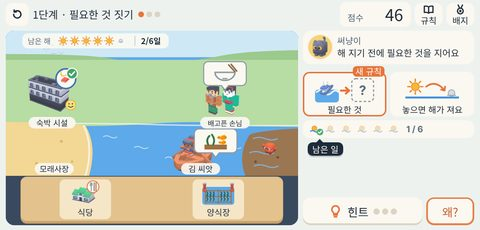
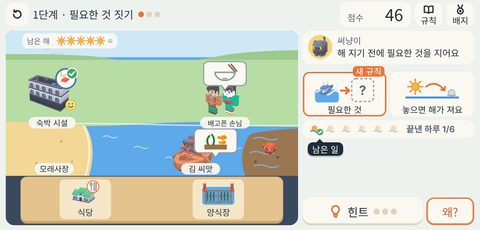
4-2 사회 3-4 「바닷가 하루」 블라인드 1차 반영 (3단계 목표·숫자 하나로)
Claude-Session: https://claude.ai/code/session_01Xu1o9JHui9XqPuFSLqMcPY

Changed region(s): [[0.0625, 0.1217, 0.375, 0.213], [0.8438, 0.5174, 0.9688, 0.5783]]

diff --git a/games/r3a4.html b/games/r3a4.html
@@ -469,6 +469,12 @@ Object.assign(ASSETS, {
   bdPort:  {vb:[0,0,48,48], svg:'<circle cx="24" cy="24" r="22" class="f-org"/><use href="#a-cFactory" x="6" y="10" width="36" height="30"/>'}
 });
 /* SVG로 둔 것과 까닭 */
+/* 배포 게임에서 가져온 Kenney 스프라이트(CC0) — kit/libsprite.py
+   kBox ← r3a1.html의 kBox */
+Object.assign(ASSETS, {
[1 lines of base64/hex data omitted]
+});
+
 var ASSETS_SVG_WHY = {
   cHarbor: '항구 묶음: Kenney 부두(pirate/structure-platform-dock)·고깃배(watercraft/boat-fishing-small)를 씀. 방파제·등대는 찾아봄(kenney --find lighthouse → Cartography Pack 선 그림뿐, 3D 키트에 등대 없음) → 직접 그림',
   cFarm: '양식장: 3D·2D 팩 모두 양식 틀·김 줄 없음(--find farm|net|seaweed → 밭·바닷속 풀뿐). 부표만 Kenney watercraft/buoy',
@@ -557,12 +563,12 @@ var STAGES = [
 var BADGES = [
   {k:'build', name:'사람이 만든 것', art:'bdBuild', def:'항구(배가 안전하게 드나드는 곳)·양식장(사람의 힘으로 물고기·김을 기르는 곳)·식당·숙박 시설은 사람이 바닷가에 만든 것이에요. 갯벌·모래사장은 원래 있던 자연이에요.'},
   {k:'work',  name:'바닷가 사람들의 일', art:'bdWork', def:'바닷가 사람들은 바다에서 물고기를 잡고, 양식장에서 일하고, 수산물 직판장에서 생선을 사고팔아요. 놀러 온 사람들은 모래사장에서 놀아요.'},
-  {k:'port',  name:'공업', art:'bdPort', def:'공업은 원료로 생활에 필요한 물건을 만드는 일이에요. 바다가 있는 지역은 배로 원료와 제품을 실어 나를 수 있어 공업이 발달하기도 해요.'}
+  {k:'port',  name:'공업', art:'bdPort', def:'공업은 원료(물건을 만들 재료)로 생활에 필요한 물건을 만드는 일이에요. 바다가 있는 지역은 배로 원료와 제품을 실어 나를 수 있어 공업이 발달하기도 해요.'}
 ];
 var NAMES = {
   harbor:'<em>항구</em>: 배가 안전해요', farm:'<em>양식장</em>: 김을 길러요', food:'<em>식당</em>에서 먹어요', inn:'<em>숙박 시설</em>에서 쉬어요',
   fisher:'바다에서 <em>물고기</em>를 잡아요', farmer:'<em>양식장</em>에서 일해요', tourist:'<em>모래사장</em>에서 공놀이!', seller:'<em>직판장</em>에서 생선 팔아요',
-  near:'배가 <em>원료</em>를 바로 줘요', house:'일하러 온 사람들의 집', box:'<em>제품</em>을 배에 실어요', miss:'해가 졌어요'
+  near:'배가 <em>만들 재료</em>를 바로 줘요', house:'일하러 온 사람들의 집', box:'<em>제품</em>을 배에 실어요', miss:'해가 졌어요'
 };
 var TITLES = [[0,'새내기 마을지기'],[460,'바닷가 마을지기'],[560,'솜씨 마을지기'],[640,'으뜸 바닷가 마을지기']];
 
@@ -654,7 +660,7 @@ function checkEnd(G,ev){
     if(!left){ bonus=(CFG.day-G.hour)*CFG.sunK; G.score+=bonus; }
   }
   G.rx.left=left; G.sx.left+=left; G.stats.left+=left; G.stats.days++;
-  var good = port ? (G.rx.farF===0 && !left) : !left; if(good){ G.res.served++; G.stats.happy++; } else G.res.missed++;
+  var good = port ? (G.rx.farF===0 && !left) : !left; if(good){ G.res.served++; G.stats.happy++; if(!G.ch){ G.stats.hs=G.stats.hs||[0,0,0]; G.stats.hs[G.si]++; } } else G.res.missed++;
   G.endT=G.t+CFG.endPause;
   ev.push({t:'roundEnd', bonus:bonus, left:left, good:good, at:'sun'});
 }
@@ -773,7 +779,7 @@ var GAME = {
     startBtn: '시작',
     start: ['해 지기 전에 필요한 것을 지어요',
             '해 지기 전에 사람을 일터로 보내요',
-            '공장을 놓아 배를 제품으로 채워요'],
+            '공장을 놓아 배 칸을 채워요'],
     end: [['자연에 사람이 만든 것을 더했어!'],
           ['바다 덕분에 하는 일이 많아!'],
           ['배로 나르니 공업이 발달해!', '울산도 이렇게 바뀌었어!']],
@@ -782,9 +788,9 @@ var GAME = {
   ruleCards: [
     [['rNeed','필요한 것',1],['rSun','놓으면 해가 져요']],
     [['rWork','하는 일',1],['rSun','놓으면 해가 져요']],
-    [['rPort','배로 원료·제품',1],['rSun','놓으면 해가 져요']]
+    [['rPort','배로 재료·제품',1],['rSun','놓으면 해가 져요']]
   ],
-  rulesModal: { cards: [['rNeed','필요한 곳에 알맞은 것'],['rSun','한 번 놓으면 해가 하나 져요'],['rPort','배가 원료와 제품을 날라요']],
+  rulesModal: { cards: [['rNeed','필요한 곳에 알맞은 것'],['rSun','한 번 놓으면 해가 하나 져요'],['rPort','배가 만들 재료와 제품을 날라요']],
     note: '아래 카드를 끌어 바닷가에 놓아요. 해가 다 지기 전에 모두 도와요.' },
   stageRibbon: function(G){ var ok=G.res.missed===0; return ok ? (G.si+1)+'단계 성공!' : {text:(G.si+1)+'단계 끝!', confetti:false}; },
   result: {
@@ -794,8 +800,9 @@ var GAME = {
     next: '다음 시간: 환경을 개발하면 무엇이 달라질까?',
     say: '친구 점수와 비교해 봐!',
     art: function(G){
-      var n=Math.min(G.stats.happy,18), h='', i;
-      for(i=0;i<n;i++) h+=useArt('progSun', 4+i*28, 10, 26, 26)+useArt('okMark', 18+i*28, 28, 14, 14);
+      /* 단계별로 묶어(사이를 띄워) 보여 줌: 그림 수 = 모두 도운 날 */
+      var hs=G.stats.hs||[G.stats.happy,0,0], h='', x=4, i, j, n=0;
+      for(j=0;j<3;j++){ for(i=0;i<(hs[j]||0);i++){ h+=useArt('progSun', x, 10, 24, 24)+useArt('okMark', x+13, 26, 13, 13); x+=26; n++; } x+=18; }
       return n ? {vb:[0,0,520,50], svg:h} : null;
     }
   },
@@ -807,7 +814,7 @@ var GAME = {
       var r=stOf(G).rule;
       if(r==='build') return {why:'바닷가에는 원래 갯벌·모래사장 같은 자연이 있어요. 사람들은 필요해서 항구·양식장·식당·숙박 시설을 만들어요', def:BADGES[0].def, page:'교과서 117쪽 참고'};
       if(r==='work') return {why:'어부는 바다에서 물고기를 잡고, 양식장에서는 김·물고기를 길러요. 상인은 직판장에서, 관광객은 모래사장에서 놀아요', def:BADGES[1].def, page:'교과서 117쪽 참고'};
-      return {why:'항구 옆 공장은 배가 원료를 바로 내려 주고 제품을 바로 실어 가요. 언덕 너머 공장은 트럭이 오가느라 제품이 적어요', def:BADGES[2].def, page:'교과서 118쪽 참고'};
+      return {why:'항구 옆 공장은 배가 만들 재료(원료)를 바로 내려 주고 제품을 바로 실어 가요. 언덕 너머 공장은 트럭이 오가느라 제품이 적어요', def:BADGES[2].def, page:'교과서 118쪽 참고'};
     }
   },
   /* 도전은 뺐다(조율자 2026-11-20): 결과를 보고 숫자를 맞춘 설계, 레벨이 카드 수만 올림 → 공리 정신(교훈 20·26) 미달 */
@@ -821,9 +828,9 @@ var GAME = {
   onEvent: function(e,FX){
     if(e.t==='ok'){ if(e.pts>0) FX.score(e.at.replace('spot:','pts:'), e.pts, false, 0); FX.burst(e.at, 8); FX.explain({why:OKWHY[e.c]||'', page:'교과서 117쪽 참고'}); }
     else if(e.t==='put'){ if(e.pts>0) FX.score(e.at.replace('spot:','pts:'), e.pts, false, 0); FX.burst(e.at, 6);
-      if(e.c==='factory' && e.k==='far') FX.callout('원료가 멀리서 와요', e.at);
-      FX.explain({why:e.c==='house'?'공장에서 일하러 온 사람들이 살 집이에요':e.k==='near'?'배가 원료를 바로 내려 주고 제품을 바로 실어 가요':'언덕 너머라 트럭이 오가느라 늦어요', def:BADGES[2].def, page:'교과서 118쪽 참고'}); }
-    else if(e.t==='box'){ if(e.pts>0) FX.score('shipPts', e.pts, false, 0); }
+      if(e.c==='factory' && e.k==='far') FX.callout('재료가 멀리서 와요', e.at);
+      FX.explain({why:e.c==='house'?'공장에서 일하러 온 사람들이 살 집이에요':e.k==='near'?'배가 만들 재료를 바로 내려 주고 제품을 바로 실어 가요':'언덕 너머라 트럭이 오가느라 늦어요', def:BADGES[2].def, page:'교과서 118쪽 참고'}); }
+    else if(e.t==='box'){ }   /* 블라인드 1차: 3단계 숫자는 배 칸 하나만(상자마다 +3 띄우지 않음) */
     else if(e.t==='wrong'){ FX.comboOff(); var w=WRONG[e.why]||{line:'다시!'}; FX.explain({why:w.why, page:'교과서 117쪽 참고'}); }   /* 이유 한 줄은 장면이 놓은 자리 안에 그린다(scene.js missLine) */
     else if(e.t==='roundEnd'){ FX.progress(); if(e.bonus>0) FX.score('sun', e.bonus, false, 0); }
     else if(e.t==='newRound'){ if(typeof U!=='undefined' && U && U.callQ) U.callQ.length=0; FX.progress(); }
@@ -887,7 +894,7 @@ function itemSvg(item){ return iconSvg(item,'it'); }
    판이 바뀌면 앞 판이 왼쪽으로 밀려 나가고 새 판이 오른쪽에서 함께 들어온다(0.6초, 하늘·땅·바다·선반은 제자리). */
 var SCENE = (function(){
   var VB={w:600,h:440}, TRAY_Y=330, LB=196, FB=150;
-  var X={L0:75,L1:205,L2:335,L3:465,W0:250,W1:410,N0:75,N1:205,F0:432,F1:540};
+  var X={L0:75,L1:205,L2:335,L3:465,W0:250,W1:410,N0:62,N1:170,F0:470,F1:552};
   var SHIP={x:120, y:250, w:210};
   var svg, L={}, bgKey='';
   function el(tag,attrs){ var e=document.createElementNS(NS,tag); for(var k in attrs) e.setAttribute(k,attrs[k]); return e; }
@@ -942,10 +949,9 @@ var SCENE = (function(){
     var h='';
     if(G.phase==='play' || G.phase==='title'){
       var left=CFG.day-(G.hour||0);
-      var fresh=G.phase==='play' && G.t-G.slideT<0.9, nR=G.phase==='play'?nRounds(G):0;
-      h+='<g data-keep="sun"><rect x="8" y="6" width="'+(nR?330:252)+'" height="34" rx="12" fill="#FBF8F1" opacity=".92"/>'+txt(46,30,'남은 해',17,'#5B6B7E');
-      for(var i=0;i<CFG.day;i++){ var cx=100+i*26; h+= i<left ? '<g'+(fresh?' class="r3a4-pop" style="animation-delay:'+(0.1+i*0.07)+'s"':'')+'>'+ua('sunOn',cx-11,12,22,22)+'</g>' : ua('sunOff',cx-9,14,18,18); }
-      if(nR) h+='<path d="M262 12V34" stroke="#C9CED6" stroke-width="2"/>'+txt(298,30,(G.ri+1)+'/'+nR+'일',18,'#1E2B3A',' font-weight="700"');
+      var fresh=G.phase==='play' && G.t-G.slideT<0.9;
+      h+='<g data-keep="sun"><rect x="8" y="6" width="214" height="34" rx="12" fill="#FBF8F1" opacity=".92"/>'+txt(44,30,'남은 해',17,'#5B6B7E');
+      for(var i=0;i<CFG.day;i++){ var cx=96+i*22; h+= i<left ? '<g'+(fresh?' class="r3a4-pop" style="animation-delay:'+(0.1+i*0.07)+'s"':'')+'>'+ua('sunOn',cx-11,12,22,22)+'</g>' : ua('sunOff',cx-9,14,18,18); }
       h+='</g>';
     }
     setH(L.hud,h);
@@ -957,7 +963,8 @@ var SCENE = (function(){
     if(sl==='B') return hasB2(spots) ? {x:4, y:218, w:78, h:104} : {x:4, y:218, w:156, h:104};
     if(sl==='B2') return {x:84, y:218, w:78, h:104};
     if(sl[0]==='W') return {x:cx-76, y:220, w:152, h:102};
-    if(sl[0]==='F') return {x:cx-52, y:46, w:104, h:112};
+    if(sl[0]==='F') return {x:cx-44, y:46, w:88, h:112};
+    if(sl[0]==='N') return {x:cx-54, y:80, w:108, h:124};
     return {x:cx-62, y:80, w:124, h:124};
   }
   function bubble(cx,y,icon){ return '<g data-keep="bub"><path d="M'+(cx-38)+' '+y+'h76a10 10 0 0 1 10 10v34a10 10 0 0 1-10 10h-30l-8 10-8-10h-30a10 10 0 0 1-10-10v-34a10 10 0 0 1 10-10z" fill="#FBF8F1" stroke="#8C99A5" stroke-width="2.4"/>'+ua(icon,cx-28,y+4,56,46)+'</g>'; }
@@ -984,8 +991,8 @@ var SCENE = (function(){
       h+= sl==='B2' ? '' : ua('kParasol',b.x+4,226,46,52);
       if(done) h+=pop(ua('fB',bx-14,236,36,46)+ua('ball',bx+12,232,26,26));
       else h+=ua('ball',bx+(sl==='B2'?-12:6),278,28,28); }
-    else if(k==='market'){ h+=ua('kStall',cx-54,LB-104,108,92)+'<rect x="'+(cx-26)+'" y="'+(LB-48)+'" width="52" height="14" rx="3" fill="#C99A5E"/>'+ua('fishB',cx-26,LB-58,26,14)+ua('fishO',cx,LB-58,26,14)+ua('kWomN',cx+34,LB-62,28,54);
-      if(done) h=pop(h+ua('mA',cx-20,LB-96,40,46)); else h+=''; }
+    else if(k==='market'){ h+=ua('kStall',cx-54,LB-104,108,92)+'<rect x="'+(cx-26)+'" y="'+(LB-48)+'" width="52" height="14" rx="3" fill="#C99A5E"/>'+ua('fishB',cx-26,LB-58,26,14)+ua('fishO',cx,LB-58,26,14);
+      if(done) h=pop(h+ua('mA',cx-20,LB-96,40,46)+ua('kWomN',cx+34,LB-62,28,54)); }
     else if(k==='near'||k==='far'){ h+=plotArt(G,s,cx); }
     if(s.ghost) return h;
     /* 맞힘 체크 / 놓친 자리 */
@@ -1002,16 +1009,14 @@ var SCENE = (function(){
     return '<rect x="'+(cx-fw/2)+'" y="'+y+'" width="'+fw+'" height="30" rx="12" fill="#FFFFFF" stroke="#D9534F" stroke-width="2.4"/>'+txt(cx,y+22,n,18,'#B03A36'); }
   /* 3단계 땅: 빈 땅(점선) / 공장(항구 옆 = 기중기 줄로 원료, 언덕 너머 = 트럭이 길 위) / 집 */
   function plotArt(G,s,cx){
-    var far=s.k==='far', base=far?FB:LB, h='';
-    if(s.st==='empty'){ h+='<rect x="'+(cx-46)+'" y="'+(base-44)+'" width="92" height="40" rx="8" fill="#C9A77A" stroke="#8C6A4A" stroke-width="2.4" stroke-dasharray="7 5"/>'; return h; }
+    var far=s.k==='far', base=far?FB:LB, h='', fw=far?84:100, pw=far?80:92;
+    if(s.st==='empty'){ h+='<rect x="'+(cx-pw/2)+'" y="'+(base-44)+'" width="'+pw+'" height="40" rx="8" fill="#C9A77A" stroke="#8C6A4A" stroke-width="2.4" stroke-dasharray="7 5"/>'; return h; }
     if(s.st==='fac'){
-      h+=ua('cFactory',cx-50,base-84,100,80);
-      if(!far){ h+='<path d="M'+(cx+30)+' '+(base-60)+'L'+(SHIP.x+SHIP.w/2-30)+' 214" stroke="#5B6B7E" stroke-width="2" stroke-dasharray="5 4"/>'; }
-      else { var ph=((G.hour-s.at)%CFG.farEvery)/CFG.farEvery, tx=338+ph*(cx-338), ty=200-ph*38;
-        h+=ua('truck',tx-24,ty-26,48,24); }
-      if(s.boxes) h+='<g><rect x="'+(cx+8)+'" y="'+(base-104)+'" width="64" height="28" rx="10" fill="#FBF8F1" opacity=".92"/>'+ua('gCont',cx+10,base-102,28,24)+txt(cx+54,base-83,'×'+s.boxes,18,'#1E2B3A',' font-weight="700"')+'</g>';
+      h+=ua('cFactory',cx-fw/2,base-fw*0.84,fw,fw*0.8);
+      if(far){ var ph=((G.hour-s.at)%CFG.farEvery)/CFG.farEvery, tx=338+ph*(cx-60-338), ty=200-Math.min(1,ph*1.6)*38;
+        h+=ua('truck',tx-24,ty-26,48,24)+ua('kBox',tx-12,ty-40,22,17); }   /* 트럭이 상자를 싣고 언덕 길을 천천히 오간다 */
     }
-    if(s.st==='house') h+=ua('cHouse',cx-40,base-84,80,80);
+    if(s.st==='house') h+=ua('cHouse',cx-fw*0.4,base-fw*0.84,fw*0.8,fw*0.8);
     return h;
   }
   /* 맞힌 순간(0.6초): 놓은 카드가 그 자리로 줄어들며 들어간다 */
@@ -1021,13 +1026,15 @@ var SCENE = (function(){
       h+='<g opacity="'+o.toFixed(2)+'"><circle cx="'+cx+'" cy="'+cy+'" r="'+(40+a*40).toFixed(1)+'" fill="none" stroke="#3FA56B" stroke-width="4"/>'+ua(CARDS[s.what].art,cx-w/2,cy-w/2,w,w)+'</g>'; }
     return h;
   }
-  function labName(s){ var d=SPOTS[s.k]; if(s.k==='near'||s.k==='far') return s.st==='fac'?'공장':s.st==='house'?'집':d.name; return s.st==='done' && d.ok ? d.ok : d.name; }
+  function labName(s){ var d=SPOTS[s.k]; if(s.k==='far' && s.st==='empty') return '';   /* 빈 언덕 너머 땅은 이름표 하나로 묶음(lab:far) */
+    if(s.k==='near'||s.k==='far') return s.st==='fac'?'공장':s.st==='house'?'집':d.name; return s.st==='done' && d.ok ? d.ok : d.name; }
   function labPos(s,spots){ var b=spotBox(s,spots), sl=s.slot;
     if(sl[0]==='W' || sl[0]==='B') return {x:b.x+b.w/2, y:312};
     if(sl[0]==='F') return {x:X[sl], y:FB+30};
     return {x:X[sl], y:LB+12}; }
   function labSize(n){ return n.length>5?16:18; }
-  function labArt(G,s,spots){ var p=labPos(s,spots), n=labName(s); return pill(p.x,p.y,n,labSize(n)); }
+  function labArt(G,s,spots){ var p=labPos(s,spots), n=labName(s); return n ? pill(p.x,p.y,n,labSize(n)) : ''; }
+  function farEmpty(spots){ return (spots||[]).some(function(s){ return s.k==='far' && s.st==='empty'; }); }
   /* 쓰지 않은 칸의 장식(이미 지은 마을) */
   function decor(G,spots){
     var r=rule(G), used={}, h=''; (spots||[]).forEach(function(s){ used[s.slot]=1; });
@@ -1040,12 +1047,14 @@ var SCENE = (function(){
   /* 3단계 화물선: 갑판 점선 칸 = 실을 수 있는 제품, 채운 칸 = 실은 제품 */
   function shipArt(G,ship,max){
     var h='', sx=SHIP.x, sy=SHIP.y, w=SHIP.w;
-    h+=ua('crane',290,112,56,96);
     h+='<path d="M'+(sx-8)+' '+sy+'H'+(sx+w+10)+'L'+(sx+w-8)+' '+(sy+62)+'H'+(sx+10)+'Z" fill="#3E6FB0" stroke="#2B4F82" stroke-width="2.4"/>'+
        '<rect x="'+(sx+w-34)+'" y="'+(sy-30)+'" width="30" height="30" rx="4" fill="#FBF8F1" stroke="#5B6B7E" stroke-width="2"/><rect x="'+(sx+w-29)+'" y="'+(sy-24)+'" width="20" height="8" fill="#7FB3D8"/>';
     var shown=Math.max(0,ship-(G.fx||[]).filter(function(f){ return f.k==='box' && G.t-f.at<0.6; }).length);
     for(var i=0;i<max;i++){ var col=i%6, row=Math.floor(i/6), x=sx+4+col*28, y=sy+6+row*26;
-      h+= i<shown ? ua('gCont',x,y-2,26,22) : '<rect x="'+(x+2)+'" y="'+y+'" width="22" height="18" rx="3" fill="#FBF8F1" fill-opacity=".3" stroke="#FBF8F1" stroke-width="2" stroke-dasharray="4 3"/>'; }
+      h+= i<shown ? ua('kBox',x-1,y-2,28,22) : '<rect x="'+(x+2)+'" y="'+y+'" width="22" height="18" rx="3" fill="#FBF8F1" fill-opacity=".3" stroke="#FBF8F1" stroke-width="2" stroke-dasharray="4 3"/>'; }
+    /* 목표 = 하나의 숫자: 배에 실을 제품 n/m (칸 채움과 같은 수) */
+    h+='<rect x="338" y="268" width="214" height="38" rx="14" fill="#FBF8F1" stroke="#2B4F82" stroke-width="2.4"/>'+ua('kBox',344,275,28,22)+
+       '<text x="376" y="293" font-size="17" fill="#1E2B3A" class="r3a4-t">배에 실을 제품</text>'+'<text x="544" y="296" text-anchor="end" font-size="22" font-weight="700" fill="#2B4F82" class="r3a4-t">'+shown+'/'+max+'</text>';
     return '<g data-keep="ship">'+h+'</g>';
   }
   function village(G,spots,occ,ship,max){
@@ -1055,6 +1064,7 @@ var SCENE = (function(){
     spots.forEach(function(s){ h+=labArt(G,s,spots); });
     if(r!=='port' && !spots.some(function(s){ return s.slot==='B'; })) h+=pill(80,312,'모래사장',18);
     if(r==='port') (occ||[]).forEach(function(sl){ h+=pill(X[sl],LB+12,'이미 선 공장',16); });
+    if(r==='port' && farEmpty(spots)) h+=pill(511,FB+30,'언덕 너머 땅',17);
     return h;
   }
   /* ---- 선반 ---- */
@@ -1063,6 +1073,9 @@ var SCENE = (function(){
     if(G.phase==='stageEnd'){ setH(L.tray,''); return; }
     var h='', n=(G.tray||[]).length, on=G.phase==='play'||G.phase==='title';
     h+='<rect x="4" y="'+TRAY_Y+'" width="592" height="106" rx="14" fill="#C9A26A"/><rect x="4" y="'+TRAY_Y+'" width="592" height="100" rx="14" fill="#E3C28D"/>';
+    var empty=!(G.tray||[]).some(function(c){ return c; });
+    if(G.phase==='play' && empty){ var m=G.endT>=0 ? '하루 끝! 다음 날이 와요' : '공장이 상자를 만들어요';
+      h+=ua(G.endT>=0?'sunOff':'kBox',300-m.length*10-34,TRAY_Y+32,G.endT>=0?30:36,G.endT>=0?30:28)+txt(300+18,TRAY_Y+56,m,20,'#5B4A2E'); }
     (G.tray||[]).forEach(function(c,i){ if(!c) return; var x=trayX(i,n), a=CARDS[c].art, nm=CARDS[c].name;
       h+='<g'+(on?'':' opacity=".5"')+'><rect x="'+(x-58)+'" y="'+(TRAY_Y+6)+'" width="116" height="90" rx="12" fill="#F5E6C8"/>'+ua(a,x-36,TRAY_Y+8,72,60)+
         txt(x,TRAY_Y+88,nm,nm.length>5?16:19)+'</g>'; });
@@ -1073,8 +1086,8 @@ var SCENE = (function(){
     var h='';
     if(G.phase==='play' && rule(G)==='port') (G.fx||[]).forEach(function(f){ if(f.k!=='box') return; var a=G.t-f.at; if(a<0||a>0.6) return;
       var s=(G.spots||[]).find(function(x){ return x.id===f.id; }); if(!s) return;
-      var e=ease(a/0.6), base=s.k==='far'?FB:LB, x0=X[s.slot]+30, y0=base-20, x1=SHIP.x+SHIP.w/2, y1=SHIP.y, x=x0+(x1-x0)*e, y=y0+(y1-y0)*e-Math.sin(e*Math.PI)*40;
-      h+=ua('gCont',x-14,y-12,28,24); });
+      var e=ease(a/0.6), base=s.k==='far'?FB:LB, x0=X[s.slot]+20, y0=base-70, x1=SHIP.x+SHIP.w-30, y1=SHIP.y, x=x0+(x1-x0)*e, y=y0+(y1-y0)*e-Math.sin(e*Math.PI)*40;
+      h+=ua('kBox',x-14,y-11,28,22); });
     setH(L.fx,h);
   }
   /* ---- 단계 끝 카드(개념의 증거) ---- */
@@ -1102,10 +1115,10 @@ var SCENE = (function(){
       h+='<rect x="34" y="150" width="242" height="44" rx="8" fill="#5DA9E9"/>'+ua('gRow',50,152,60,34)+ua('gRow',200,160,54,30)+ua('houseA',40,64,70,70)+ua('houseC',114,70,60,60)+'<rect x="186" y="96" width="80" height="44" rx="6" fill="#C9D98A"/><path d="M194 106h64M194 118h64M194 130h64" stroke="#9BB55A" stroke-width="3"/>';
       h+='<rect x="324" y="150" width="242" height="44" rx="8" fill="#5DA9E9"/>'+ua('gCargo',330,140,120,56)+ua('crane',446,92,40,70)+ua('cFactory',326,56,90,72)+ua('cFactory',474,62,84,66)+ua('kBldg',420,54,52,46)+ua('kKidA',486,124,18,34)+ua('kWomN',504,124,18,34)+ua('kKidA',522,124,18,34)+ua('kWomN',540,124,18,34);
       h+='<rect x="24" y="214" width="552" height="104" rx="14" fill="#FFF1D6"/>';
-      h+=txt(152,240,'항구 옆 공장',20)+txt(448,240,'언덕 너머 공장',20);
-      for(var i=0;i<6;i++) h+=ua('gCont',44+i*36,252,32,28);
-      for(var j=0;j<2;j++) h+=ua('gCont',380+j*36,252,32,28);
-      h+=ua('truck',470,252,56,28)+txt(300,306,'배로 원료·제품을 바로 날라요',20,'#5B6B7E');
+      h+=txt(152,240,'항구 옆 공장 (가까움)',20)+txt(448,240,'언덕 너머 공장 (멂)',20);
+      for(var i=0;i<6;i++) h+=ua('kBox',44+i*36,254,32,25);
+      for(var j=0;j<2;j++) h+=ua('kBox',380+j*36,254,32,25);
+      h+=ua('truck',470,252,56,28)+txt(300,306,'배로 재료·제품을 바로 날라요',20,'#5B6B7E');
     }
     setH(L.card,h+'</g>');
   }
@@ -1132,8 +1145,8 @@ var SCENE = (function(){
       if(sl[0]==='L'||sl[0]==='N') return {x:bb.x+bb.w/2-20, y:44, w:40, h:28};
       if(sl[0]==='F') return {x:bb.x-34, y:70, w:40, h:28};
       return {x:bb.x+4, y:bb.y+2, w:40, h:28}; }
-    if(p[0]==='lab'){ if(p[1]==='sand') return {x:30,y:299,w:100,h:26}; s=(G.spots||[]).find(function(x){ return String(x.id)===p[1]; }); if(!s) return null; var q=labPos(s,G.spots), n=labName(s), w=n.length*labSize(n)+16; return {x:q.x-w/2, y:q.y-13, w:w, h:26}; }
-    if(p[0]==='sun') return (G.phase==='play'||G.phase==='title') ? {x:8, y:6, w:(G.phase==='play'?330:252), h:34} : null;
+    if(p[0]==='lab'){ if(p[1]==='sand') return {x:30,y:299,w:100,h:26}; if(p[1]==='far') return farEmpty(G.spots) ? {x:511-112,y:FB+17,w:224,h:26} : null; s=(G.spots||[]).find(function(x){ return String(x.id)===p[1]; }); if(!s) return null; var q=labPos(s,G.spots), n=labName(s); if(!n) return null; var w=n.length*labSize(n)+16; return {x:q.x-w/2, y:q.y-13, w:w, h:26}; }
+    if(p[0]==='sun') return (G.phase==='play'||G.phase==='title') ? {x:8, y:6, w:214, h:34} : null;
     if(p[0]==='ship') return (G.phase==='play' && rule(G)==='port') ? {x:SHIP.x-6, y:SHIP.y-40, w:SHIP.w+18, h:100} : null;
     if(p[0]==='endcard') return G.phase==='stageEnd' ? {x:10, y:8, w:580, h:424} : null;
     return null;
@@ -1150,7 +1163,7 @@ var SCENE = (function(){
     if(G.phase==='title'){ (G.spots||[]).forEach(function(s){ k.push('spot:'+s.id); }); (G.tray||[]).forEach(function(c,i){ k.push('card:'+i); }); }
     return k;
   }
-  function labels(G){ if(G.phase==='stageEnd') return []; var a=(G.spots||[]).map(function(s){ return 'lab:'+s.id; }); if(rule(G)!=='port') a.push('lab:sand'); return a; }
+  function labels(G){ if(G.phase==='stageEnd') return []; var a=(G.spots||[]).map(function(s){ return 'lab:'+s.id; }); if(rule(G)!=='port') a.push('lab:sand'); else a.push('lab:far'); return a; }
   function idleAt(G){ return rule(G)==='port' ? 'ship' : 'sun'; }
   var css = '.r3a4-t{font-family:var(--game)}'+
     '@keyframes r3a4r{0%,100%{transform:rotate(-8deg)}50%{transform:rotate(8deg)}}.r3a4-rock{transform-box:fill-box;transform-origin:center bottom;animation:r3a4r 1.1s ease-in-out infinite}'+
@@ -1158,7 +1171,7 @@ var SCENE = (function(){
     '@keyframes r3a4j{0%,100%{transform:translateY(0)}50%{transform:translateY(-10px)}}.r3a4-jump{animation:r3a4j 1s ease-in-out infinite}'+
     '@keyframes r3a4p{0%{transform:scale(.4);opacity:0}60%{transform:scale(1.12);opacity:1}100%{transform:scale(1)}}.r3a4-pop{transform-box:fill-box;transform-origin:center;animation:r3a4p .3s ease-out both}'+
     'body .nextq{font-size:20px;line-height:1.3;color:#3A4A5E;padding-bottom:20px}'+
-    '#prog{counter-reset:r3a4t r3a4d}#prog .pc{counter-increment:r3a4t}#prog .pc:has(.ck){counter-increment:r3a4t r3a4d}#prog::after{content:counter(r3a4d) " / " counter(r3a4t);margin-left:8px;font-size:18px;font-weight:700;color:#5B6B7E;white-space:nowrap;align-self:center}'+
+    '#prog{counter-reset:r3a4t r3a4d}#prog .pc{counter-increment:r3a4t}#prog .pc:has(.ck){counter-increment:r3a4t r3a4d}#prog::after{content:"끝낸 하루 " counter(r3a4d) "/" counter(r3a4t);margin-left:8px;font-size:18px;font-weight:700;color:#5B6B7E;white-space:nowrap;align-self:center}'+
     '@media (prefers-reduced-motion:reduce){.r3a4-rock,.r3a4-wave,.r3a4-jump,.r3a4-pop{animation:none}}';
   return {mount:mount, renderScene:renderScene, rectOf:rectOf, avoid:avoid, keepClear:keepClear, labels:labels, idleAt:idleAt, css:css, aspect:'600/440'};
 })();
